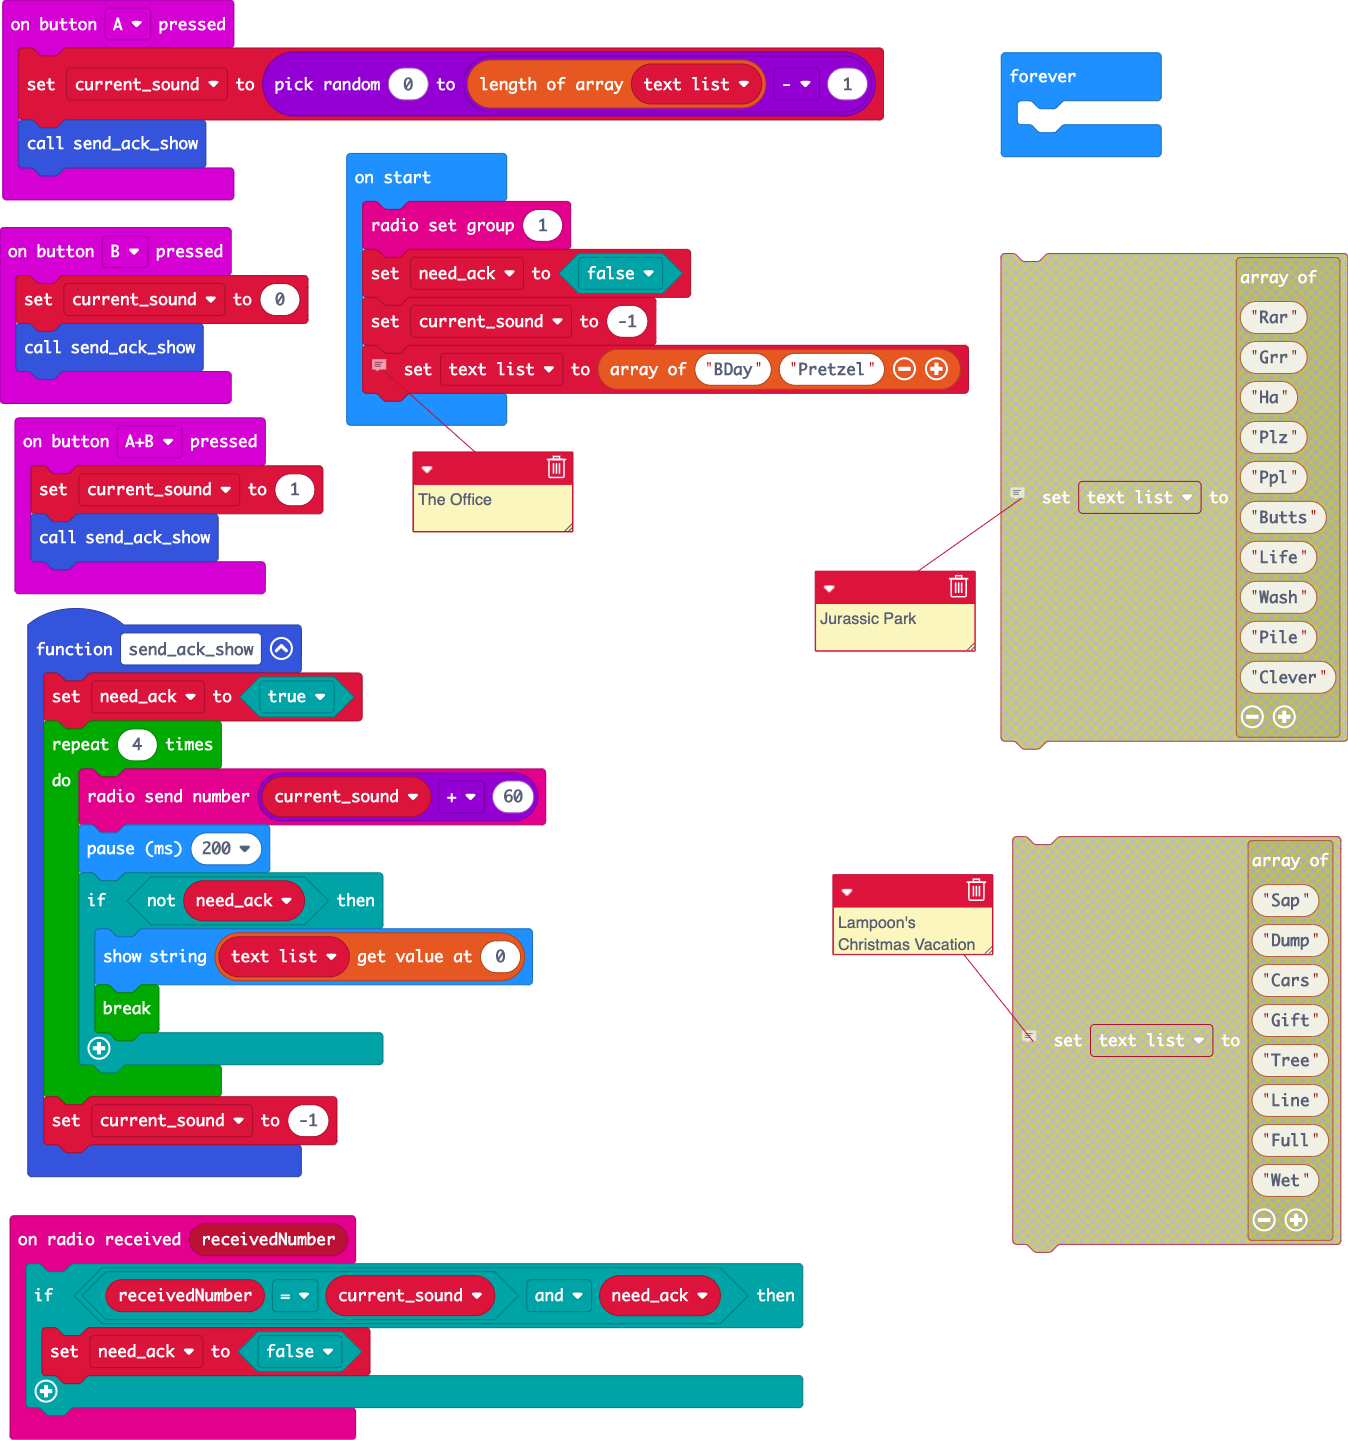
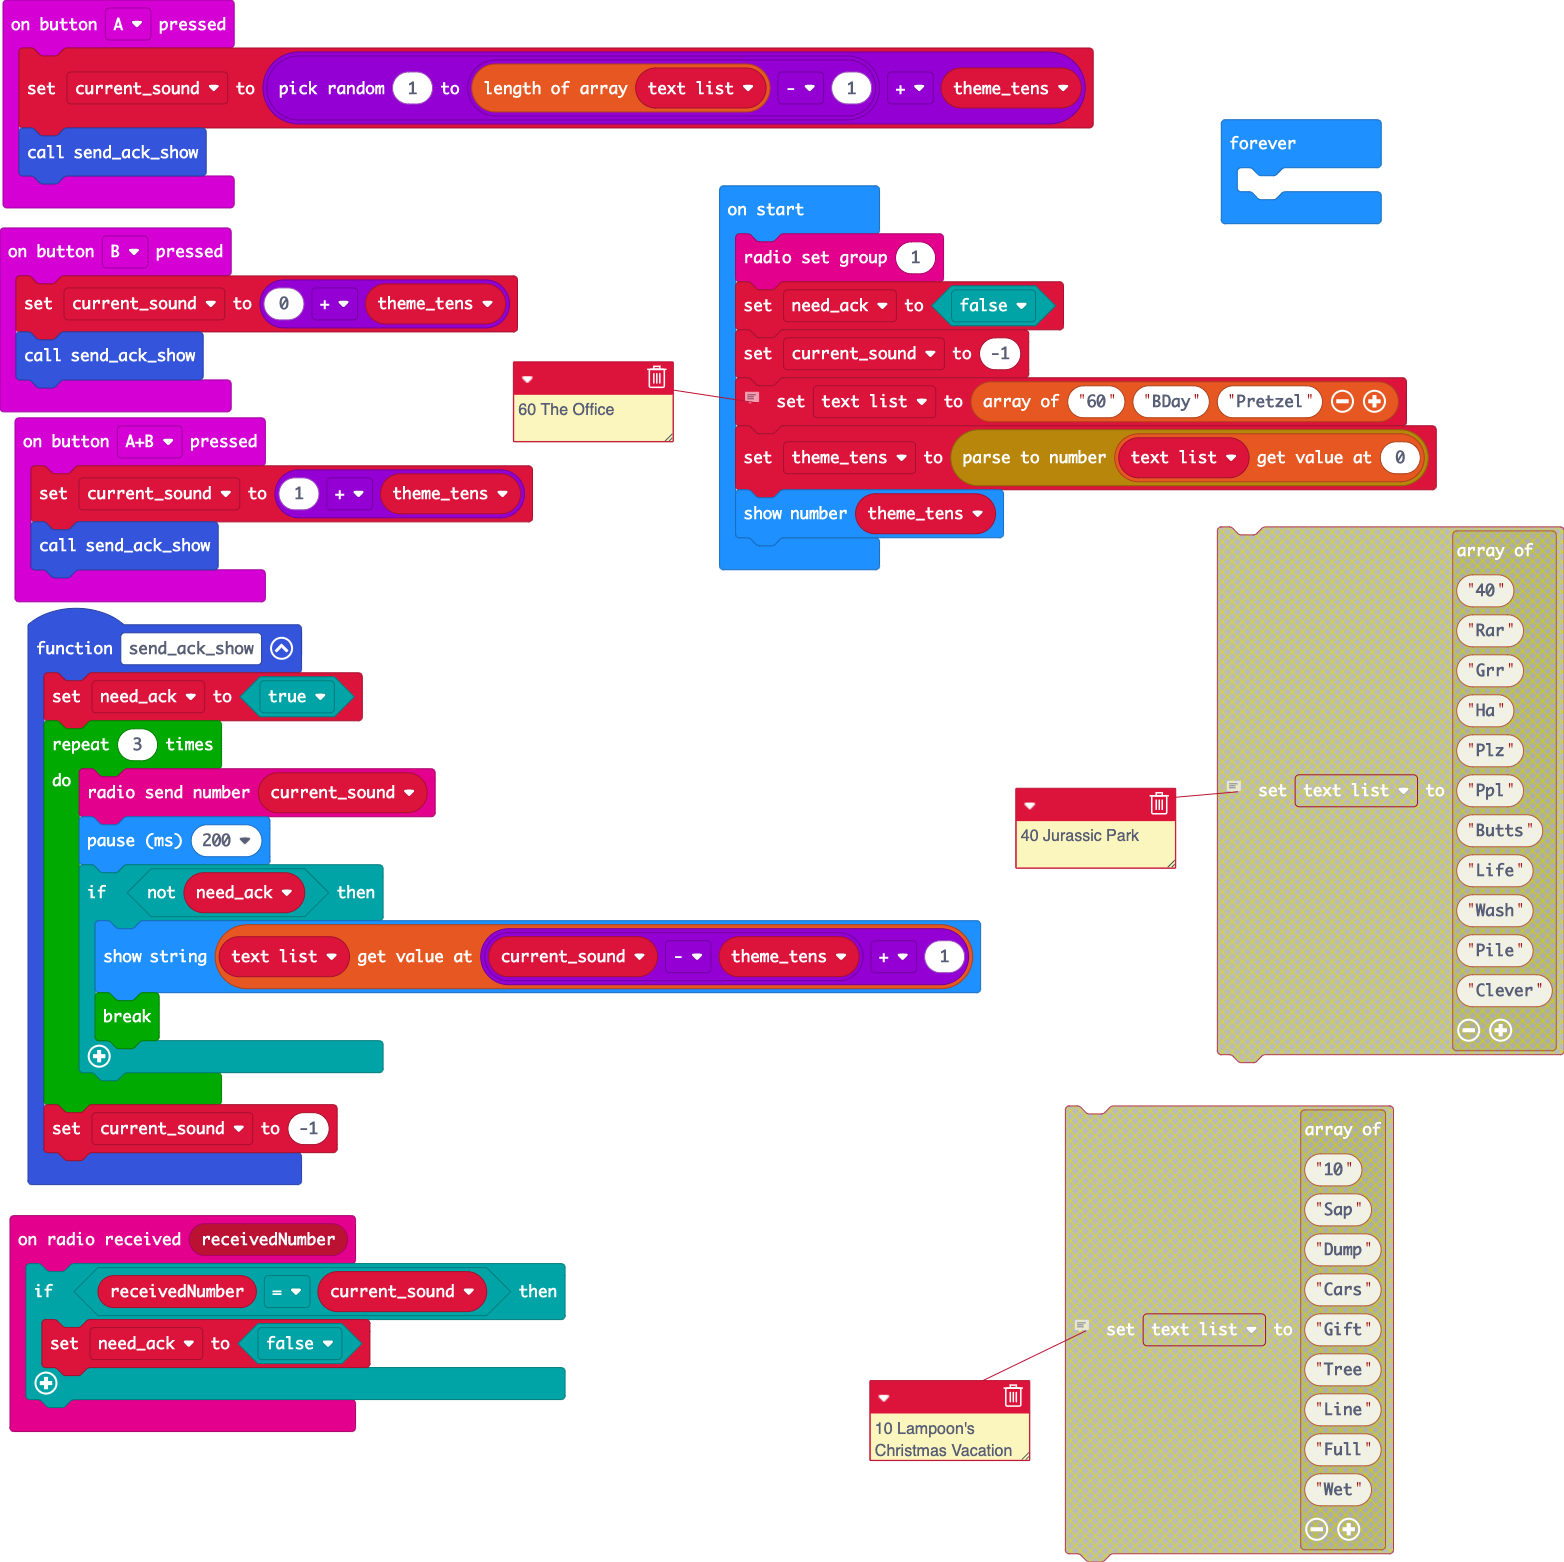
Storing theme digit in text list.

diff --git a/main.ts b/main.ts
@@ -1,40 +1,43 @@
 radio.onReceivedNumber(function (receivedNumber) {
-    if (receivedNumber == current_sound && need_ack) {
+    if (receivedNumber == current_sound) {
         need_ack = false
     }
 })
 function send_ack_show () {
     need_ack = true
-    for (let index = 0; index < 4; index++) {
-        radio.sendNumber(current_sound + 60)
+    for (let index = 0; index < 3; index++) {
+        radio.sendNumber(current_sound)
         basic.pause(200)
         if (!(need_ack)) {
-            basic.showString("" + (text_list[0]))
+            basic.showString("" + (text_list[current_sound - theme_tens + 1]))
             break;
         }
     }
     current_sound = -1
 }
 input.onButtonPressed(Button.A, function () {
-    current_sound = randint(0, text_list.length - 1)
+    current_sound = randint(1, text_list.length - 1) + theme_tens
     send_ack_show()
 })
 input.onButtonPressed(Button.AB, function () {
-    current_sound = 1
+    current_sound = 1 + theme_tens
     send_ack_show()
 })
 input.onButtonPressed(Button.B, function () {
-    current_sound = 0
+    current_sound = 0 + theme_tens
     send_ack_show()
 })
+let theme_tens = 0
 let text_list: string[] = []
 let current_sound = 0
 let need_ack = false
 radio.setGroup(1)
 need_ack = false
 current_sound = -1
-// The Office
-text_list = ["BDay", "Pretzel"]
+// 60 The Office
+text_list = ["60", "BDay", "Pretzel"]
+theme_tens = parseFloat(text_list[0])
+basic.showNumber(theme_tens)
 basic.forever(function () {
 	
 })
